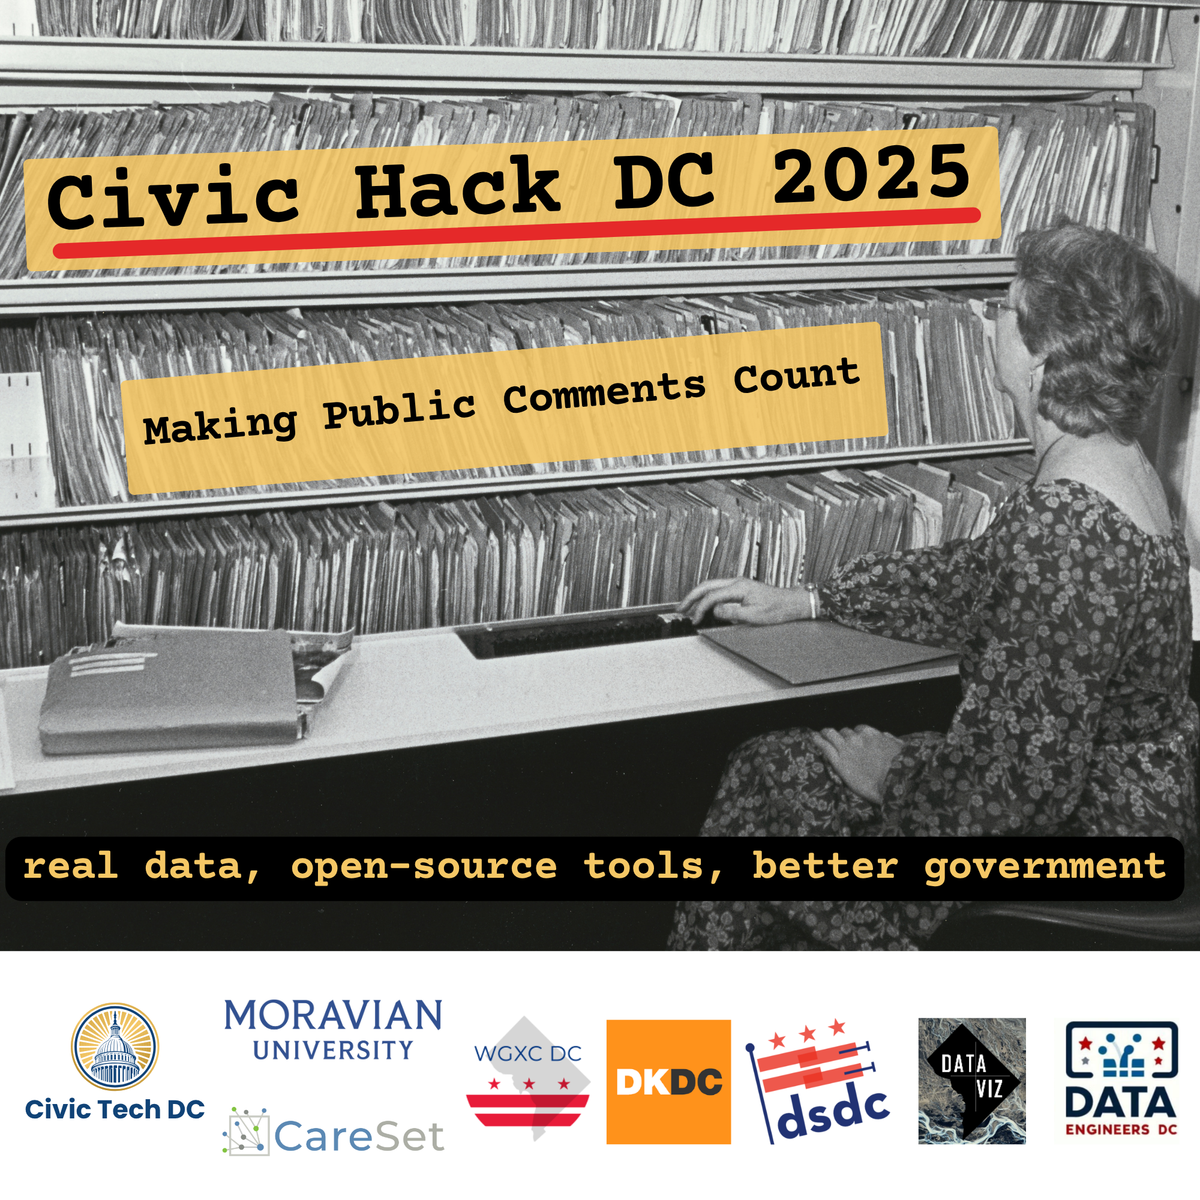
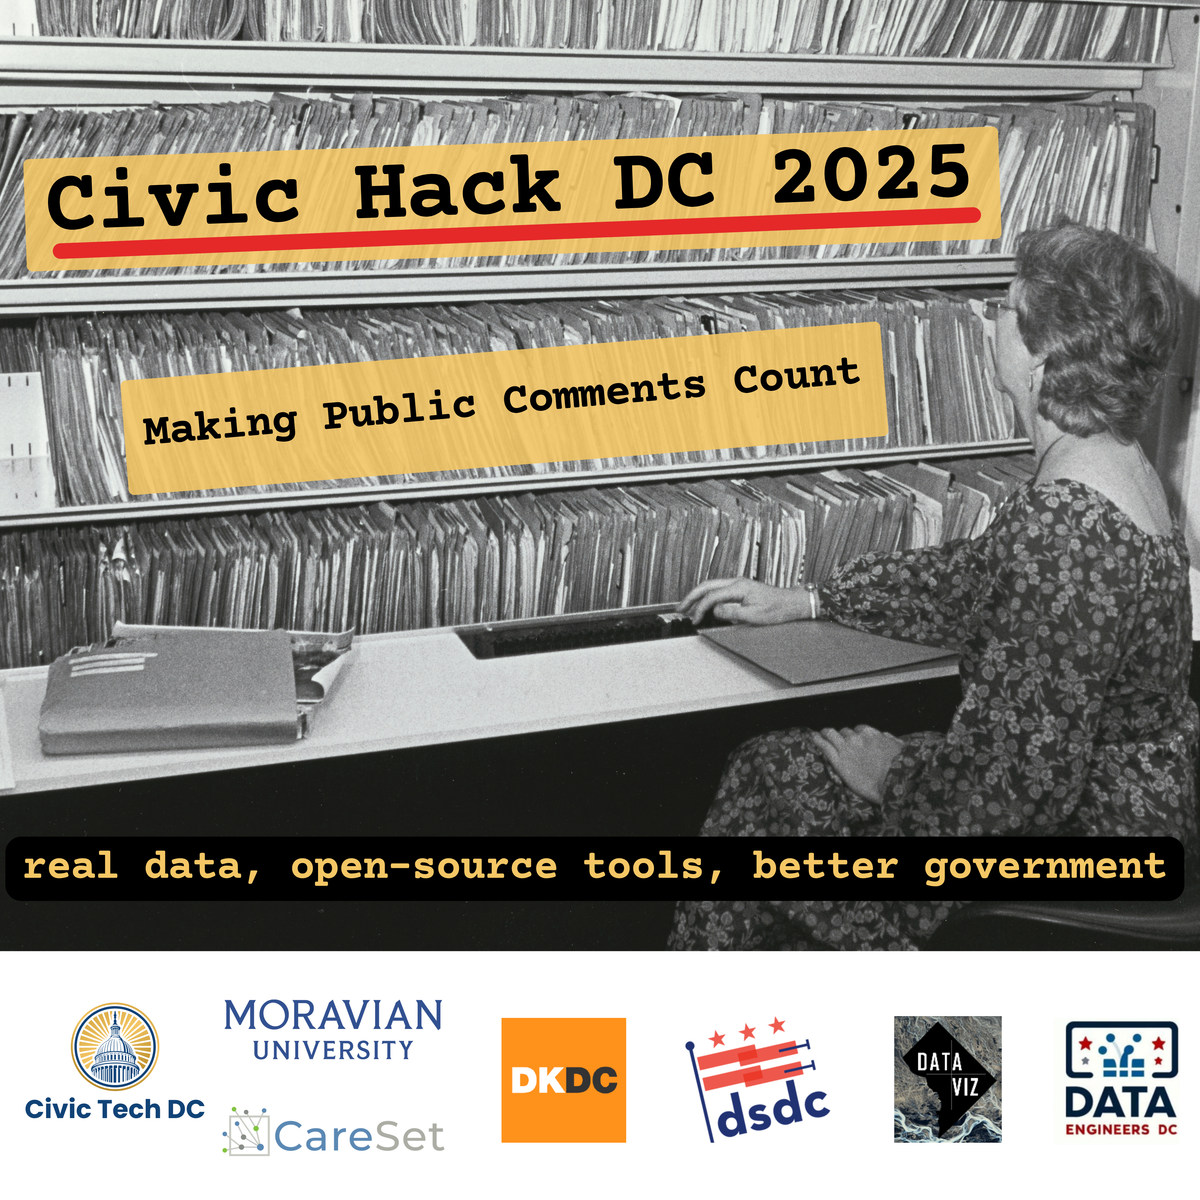
chore: removed wgxc from partners

Changed region(s): [[0.37, 0.8325, 0.8633, 0.9558]]

diff --git a/_events/civichackdc.md b/_events/civichackdc.md
@@ -4,7 +4,7 @@ title: "Civic Hack DC 2025"
 date: 2025-07-26
 location: "Washington DC"
 url: /civichackdc
-card_image: events/civichackdc/mainhackathonimage.png
+card_image: hero-image-hackathon.png
 registration_link: https://lu.ma/czi3y05y
 page_css: /assets/css/civichackdc.css
 description: |
@@ -14,7 +14,7 @@ description: |
 <section class="hero">
     <div class="container">
         <div class="hero-banner">
-            {% include responsive-image.html class="usa-card__img" src="events/civichackdc/mainhackathonimage.png" alt="Civic Hack DC banner" %}
+            {% include responsive-image.html class="usa-card__img" src="hero-image-hackathon.png" alt="Civic Hack DC banner" %}
         </div>
         <h2><b>Saturday, July 26</b></h2>
         <h4><i>10:00 AM - 6:30 PM </i></h4>
@@ -53,7 +53,7 @@ description: |
             <a href="https://www.meetup.com/data-wranglers-dc/" target="_blank" rel="noopener noreferrer"> <img class="partner-logo" src="/assets/images/events/civichackdc/dataengineers-400w.png" alt="Data Engineers"></a>
             <a href="https://www.meetup.com/data-visualization-dc/" target="_blank" rel="noopener noreferrer"> <img class="partner-logo" src="/assets/images/events/civichackdc/dataviz-400w.png" alt="Data Viz"></a>
             <a href="https://www.dc2.org/data-science-dc" target="_blank" rel="noopener noreferrer"> <img class="partner-logo" src="/assets/images/events/civichackdc/dsdc-400w.png" alt="DSDC"></a>
-            <a href="https://www.meetup.com/women-and-gender-expansive-coders-dc-wgxc-dc/" target="_blank" rel="noopener noreferrer"> <img class="partner-logo" src="/assets/images/events/civichackdc/WGXCDC-400w.png" alt="WGXCDC"></a>
+            {% comment %} <a href="https://www.meetup.com/women-and-gender-expansive-coders-dc-wgxc-dc/" target="_blank" rel="noopener noreferrer"> <img class="partner-logo" src="/assets/images/events/civichackdc/WGXCDC-400w.png" alt="WGXCDC"></a> {% endcomment %}
             <a href="https://www.meetup.com/DataKind-DC/" target="_blank" rel="noopener noreferrer"> <img class="partner-logo" src="/assets/images/logos/datakinddc-400w.png" alt="DataKindDC"></a>
         </div>
     </div>
